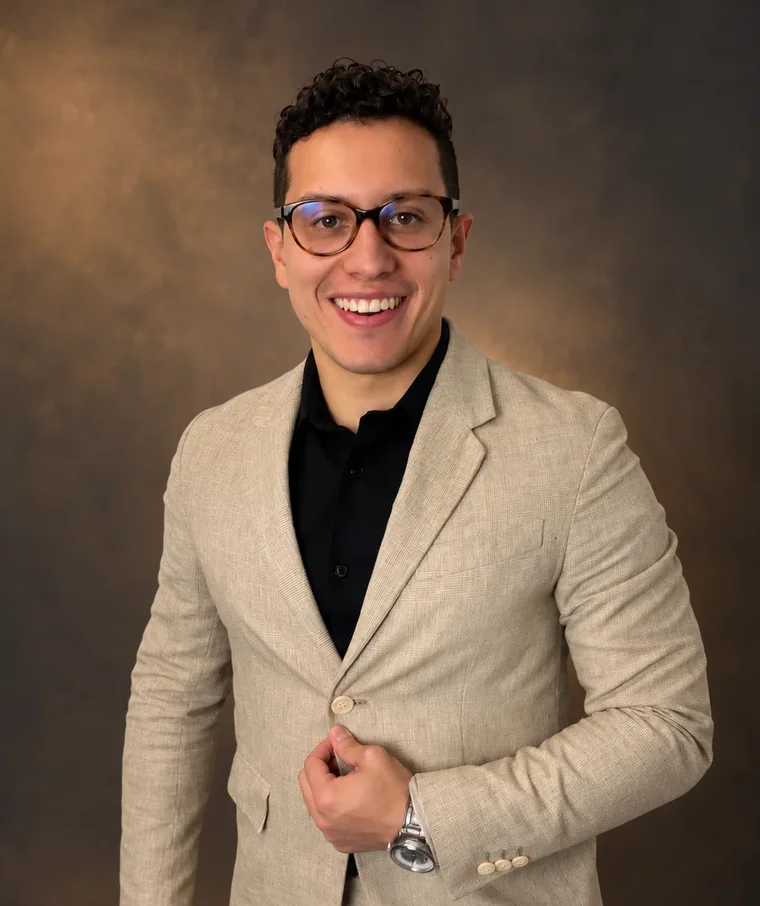
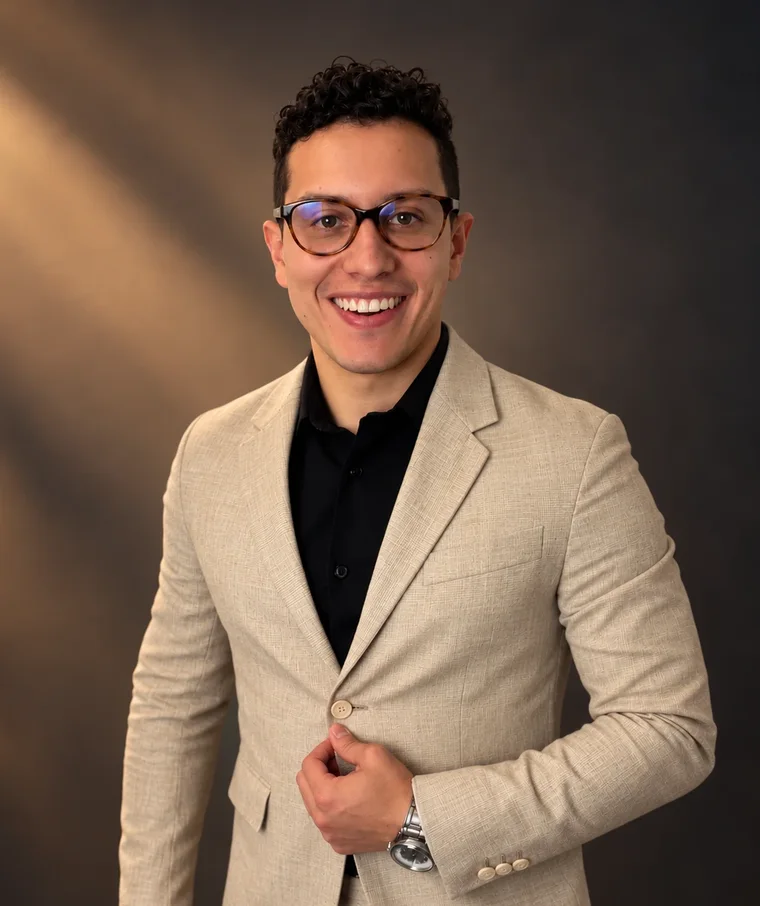
feat(masterclass): foto retocada de Holman; borrador del correo del 22 oct a fundadores

diff --git a/email-marketing/templates/ecos-fundadores-22oct-resend.html b/email-marketing/templates/ecos-fundadores-22oct-resend.html
@@ -1,0 +1,30 @@
+<!DOCTYPE html>
+<html lang="es">
+<head><meta charset="UTF-8"><meta name="viewport" content="width=device-width, initial-scale=1.0"><title>Lo que viene en ECOS</title></head>
+<body style="margin:0; padding:0; background-color:#ffffff; font-family: Arial, Helvetica, sans-serif;">
+<table width="100%" cellpadding="0" cellspacing="0" border="0">
+  <tr>
+    <td align="center" style="padding: 32px 20px;">
+      <table width="560" cellpadding="0" cellspacing="0" border="0" style="max-width:560px; width:100%;">
+        <tr>
+          <td style="font-size:16px; line-height:1.7; color:#1f2933; font-family: Arial, Helvetica, sans-serif;">
+            <p style="margin:0 0 18px 0;">Hola, {{{FIRST_NAME|}}}:</p>
+            <p style="margin:0 0 18px 0;">En estas semanas ya vivimos cinco clases en vivo de oratoria, ventas y marketing. Personas de varios países hablando de su negocio, practicando y llevándose feedback para aplicarlo al día siguiente. Y todo queda grabado en tu panel para verlo cuando quieras.</p>
+            <p style="margin:0 0 18px 0;">Te escribo para contarte lo que viene:</p>
+            <p style="margin:0 0 12px 0;"><strong>Lunes 2 de noviembre · 8 p. m. (Miami y Colombia).</strong> Masterclass «Cómo generar ingresos con negocios digitales». Puedes traer a alguien: en tu panel, en <strong>Clases</strong>, toca «Copiar enlace para invitar» y compártelo.</p>
+            <p style="margin:0 0 18px 0;"><strong>Jueves 5 de noviembre.</strong> Termina tu mes de regalo y empieza tu membresía.</p>
+            <p style="margin:0 0 18px 0;">Como fundador tienes algo que nadie más va a tener: <strong>$47 al mes para siempre</strong>, mientras sigas activo, aunque el precio suba. Para conservarlo, activa tu membresía antes del 5 de noviembre. Te toma un minuto y no se cobra nada hasta esa fecha.</p>
+            <p style="margin:28px 0 28px 0;">
+              <a href="https://holmanglobalgroup.com/ecos/activar?utm_source=email&amp;utm_medium=email&amp;utm_campaign=ecos-fundadores-22oct" style="display:inline-block; background-color:#F0B800; color:#0B1016; padding:14px 36px; border-radius:999px; font-weight:bold; font-size:15px; text-decoration:none; font-family: Arial, Helvetica, sans-serif;">Activar mi membresía</a>
+            </p>
+            <p style="margin:0 0 18px 0;">Me encanta ver cómo, semana a semana, la comunidad habla de su negocio con más seguridad. Quiero que sigas siendo parte de esto.</p>
+            <p style="margin:0 0 32px 0;">Un abrazo,<br>Holman</p>
+            <p style="margin:0; font-size:12px; line-height:1.6; color:#8a95a3;">Holman Global Group · <a href="{{{RESEND_UNSUBSCRIBE_URL}}}" style="color:#8a95a3;">Darme de baja</a></p>
+          </td>
+        </tr>
+      </table>
+    </td>
+  </tr>
+</table>
+</body>
+</html>
